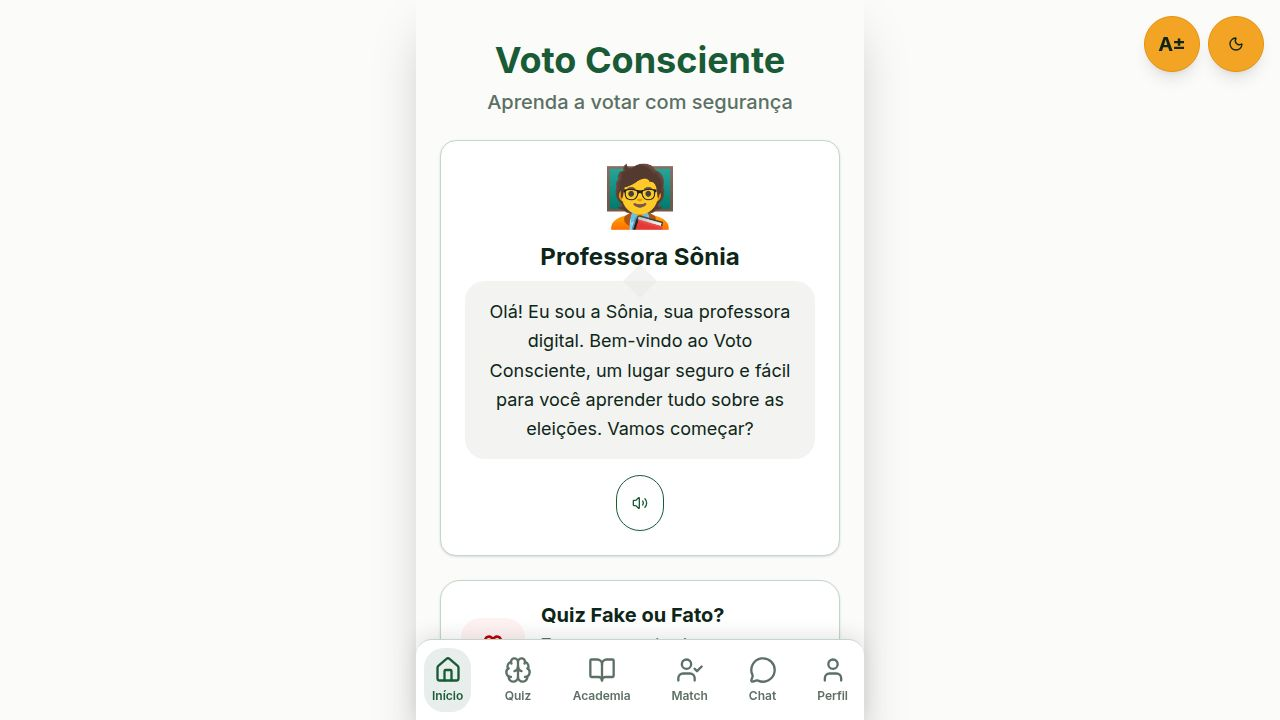
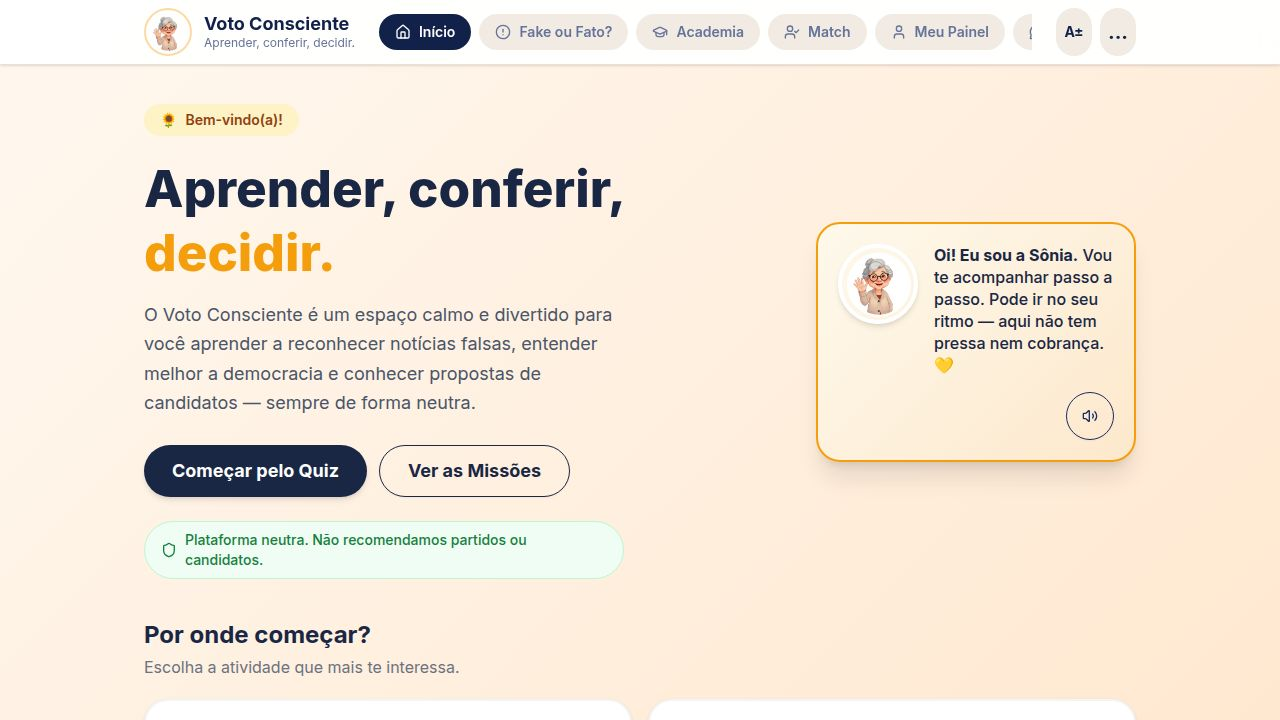
feat: redesign landing page com hero e card de chat
- Hero 2 colunas: badge "Bem-vindo(a)", headline "Aprender, conferir, decidir." (decidir em âmbar), subtexto, CTAs "Começar pelo Quiz" + "Ver as Missões", aviso de neutralidade com ícone Shield
- Card da Sônia no lado direito com foto, mensagem de boas-vindas e botão Ouvir (TTS)
- Seção "Por onde começar?" com 5 cards: Quiz, Academia, Match, Chat com a Sônia (novo), Meu Painel
- Cada card tem ícone colorido, badge de contexto (10 questões, 5 missões, 7 temas, Ao vivo, Seu progresso) e seta
- Animações framer-motion escalonadas nos cards

diff --git a/artifacts/voto-consciente/src/pages/home.tsx b/artifacts/voto-consciente/src/pages/home.tsx
@@ -1,79 +1,154 @@
 import { Link } from "wouter";
 import { SpeakerButton } from "@/components/speaker-button";
-import { AlertCircle, GraduationCap, UserCheck, User, ArrowRight } from "lucide-react";
+import { AlertCircle, GraduationCap, UserCheck, User, ArrowRight, MessageCircle, Shield } from "lucide-react";
 import { Card, CardContent } from "@/components/ui/card";
 import { Button } from "@/components/ui/button";
 import { motion } from "framer-motion";
 import mascoteImg from "@/assets/mascote.png";
 
+const soniaMessage =
+  "Oi! Eu sou a Sônia. Vou te acompanhar passo a passo. Pode ir no seu ritmo — aqui não tem pressa nem cobrança. 💛";
+
+const cards = [
+  {
+    title: "Quiz Fake ou Fato?",
+    description: "Teste seus conhecimentos e aprenda a identificar notícias falsas.",
+    icon: AlertCircle,
+    path: "/quiz",
+    iconBg: "#FEE2E2",
+    iconColor: "#DC2626",
+    badge: "10 questões",
+  },
+  {
+    title: "Academia da Democracia",
+    description: "Aulas simples sobre como funciona a política no Brasil.",
+    icon: GraduationCap,
+    path: "/academia",
+    iconBg: "#DBEAFE",
+    iconColor: "#2563EB",
+    badge: "5 missões",
+  },
+  {
+    title: "Match de Candidatos",
+    description: "Descubra quais propostas combinam com o que você pensa.",
+    icon: UserCheck,
+    path: "/match",
+    iconBg: "#DCFCE7",
+    iconColor: "#16A34A",
+    badge: "7 temas",
+  },
+  {
+    title: "Chat com a Sônia",
+    description: "Tire dúvidas sobre democracia e votação com sua assistente.",
+    icon: MessageCircle,
+    path: "/chat",
+    iconBg: "#FEF3C7",
+    iconColor: "#D97706",
+    badge: "Ao vivo",
+  },
+  {
+    title: "Meu Painel",
+    description: "Veja suas medalhas, pontuação e histórico de aprendizado.",
+    icon: User,
+    path: "/dashboard",
+    iconBg: "#F3E8FF",
+    iconColor: "#9333EA",
+    badge: "Seu progresso",
+  },
+];
+
 export default function Home() {
-  const welcomeMessage = "Não existem respostas erradas. Aqui, experiência de vida não tem idade!";
-
-  const cards = [
-    {
-      title: "Quiz Fake ou Fato?",
-      description: "Teste seus conhecimentos e aprenda a identificar notícias falsas.",
-      icon: AlertCircle,
-      path: "/quiz",
-      color: "bg-red-50 text-red-700",
-    },
-    {
-      title: "Academia",
-      description: "Aulas simples sobre como funciona a política no Brasil.",
-      icon: GraduationCap,
-      path: "/academia",
-      color: "bg-blue-50 text-blue-700",
-    },
-    {
-      title: "Match de Candidatos",
-      description: "Descubra quais propostas combinam mais com o que você pensa.",
-      icon: UserCheck,
-      path: "/match",
-      color: "bg-green-50 text-green-700",
-    },
-    {
-      title: "Meu Painel",
-      description: "Veja suas medalhas, pontuação e histórico de aprendizado.",
-      icon: User,
-      path: "/dashboard",
-      color: "bg-yellow-50 text-yellow-700",
-    }
-  ];
-
   return (
-    <div className="space-y-8 pb-8">
-      <div className="text-center pt-8">
-        <h1 className="text-4xl md:text-5xl font-extrabold text-foreground mb-4">Bem-vindo ao Voto Consciente</h1>
-        <p className="text-xl md:text-2xl text-muted-foreground font-medium">Aprenda a votar com segurança e confiança.</p>
-      </div>
-
-      <motion.div 
-        initial={{ opacity: 0, y: 20 }}
-        animate={{ opacity: 1, y: 0 }}
-        className="rounded-2xl p-6 shadow-sm border border-border flex flex-col md:flex-row items-center text-center md:text-left relative overflow-hidden gap-6"
-        style={{ background: 'linear-gradient(to right, #FFF3C4, #FFE4B0)' }}
-      >
-        <img src={mascoteImg} alt="Sônia" className="h-32 w-32 md:h-40 md:w-40 rounded-full object-cover border-4 border-white shadow-md shrink-0" />
-        <div className="flex-1">
-          <div className="bg-white/80 p-4 rounded-xl mb-4 relative shadow-sm inline-block">
-            <p className="text-xl leading-relaxed text-foreground font-medium">"{welcomeMessage}"</p>
-            <div className="absolute -left-3 top-1/2 -translate-y-1/2 w-6 h-6 bg-white/80 rotate-45 hidden md:block" />
-            <div className="absolute -top-3 left-1/2 -translate-x-1/2 w-6 h-6 bg-white/80 rotate-45 md:hidden" />
+    <div className="pb-8">
+      {/* ── HERO ── */}
+      <section className="grid grid-cols-1 md:grid-cols-2 gap-8 items-center pt-6 pb-10">
+        {/* Left */}
+        <motion.div
+          initial={{ opacity: 0, y: 24 }}
+          animate={{ opacity: 1, y: 0 }}
+          transition={{ duration: 0.6, ease: "easeOut" }}
+        >
+          {/* Badge */}
+          <div className="inline-flex items-center gap-2 px-4 py-1.5 rounded-full text-sm font-semibold mb-5" style={{ background: "#FEF3C7", color: "#92400E" }}>
+            <span>🌻</span> Bem-vindo(a)!
           </div>
-        </div>
-        <div className="shrink-0">
-            <SpeakerButton text={welcomeMessage} className="bg-white hover:bg-white/90" />
-        </div>
-      </motion.div>
 
-      <div className="flex justify-center">
-        <Link href="/academia">
-          <Button className="h-16 px-12 text-2xl font-bold rounded-full shadow-lg hover:scale-105 transition-transform" size="lg">
-            Começar agora
-          </Button>
-        </Link>
+          {/* Headline */}
+          <h1 className="font-extrabold leading-tight mb-4" style={{ fontSize: "clamp(2rem, 5vw, 3.2rem)", color: "#1a2744" }}>
+            Aprender, conferir,{" "}
+            <span style={{ color: "#F59E0B" }}>decidir.</span>
+          </h1>
+
+          {/* Sub */}
+          <p className="text-lg leading-relaxed mb-7" style={{ color: "#4a5568", maxWidth: 480 }}>
+            O Voto Consciente é um espaço calmo e divertido para você aprender a reconhecer notícias falsas, entender melhor a democracia e conhecer propostas de candidatos — sempre de forma neutra.
+          </p>
+
+          {/* CTAs */}
+          <div className="flex flex-wrap gap-3 mb-6">
+            <Link href="/quiz">
+              <Button
+                className="h-13 px-7 text-lg font-bold rounded-full shadow-md hover:scale-105 transition-transform"
+                style={{ background: "#1a2744", color: "#fff", border: "none" }}
+              >
+                Começar pelo Quiz
+              </Button>
+            </Link>
+            <Link href="/academia">
+              <Button
+                variant="outline"
+                className="h-13 px-7 text-lg font-bold rounded-full hover:scale-105 transition-transform"
+                style={{ borderColor: "#1a2744", color: "#1a2744" }}
+              >
+                Ver as Missões
+              </Button>
+            </Link>
+          </div>
+
+          {/* Neutrality note */}
+          <div className="inline-flex items-center gap-2 px-4 py-2 rounded-full text-sm font-medium" style={{ background: "#F0FDF4", color: "#15803D", border: "1px solid #BBF7D0" }}>
+            <Shield className="h-4 w-4" />
+            Plataforma neutra. Não recomendamos partidos ou candidatos.
+          </div>
+        </motion.div>
+
+        {/* Right — Sônia card */}
+        <motion.div
+          initial={{ opacity: 0, scale: 0.92 }}
+          animate={{ opacity: 1, scale: 1 }}
+          transition={{ delay: 0.2, duration: 0.6, type: "spring", bounce: 0.35 }}
+          className="flex justify-center md:justify-end"
+        >
+          <div
+            className="rounded-3xl p-5 shadow-xl max-w-xs w-full"
+            style={{ background: "linear-gradient(135deg, #FEF9EC 0%, #FDE8CC 100%)", border: "2px solid #F59E0B" }}
+          >
+            <div className="flex items-start gap-4 mb-4">
+              <img
+                src={mascoteImg}
+                alt="Sônia"
+                className="h-20 w-20 rounded-full object-cover border-4 border-white shadow-md shrink-0"
+              />
+              <div>
+                <p className="text-base leading-snug font-medium" style={{ color: "#1a2744" }}>
+                  <strong>Oi! Eu sou a Sônia.</strong> Vou te acompanhar passo a passo. Pode ir no seu ritmo — aqui não tem pressa nem cobrança. 💛
+                </p>
+              </div>
+            </div>
+            <div className="flex justify-end">
+              <SpeakerButton text={soniaMessage} className="gap-2 px-4 py-2 rounded-full font-semibold text-sm" style={{ background: "#1a2744", color: "#fff" } as React.CSSProperties} />
+            </div>
+          </div>
+        </motion.div>
+      </section>
+
+      {/* ── Section title ── */}
+      <div className="mb-5">
+        <h2 className="text-2xl font-bold" style={{ color: "#1a2744" }}>Por onde começar?</h2>
+        <p className="text-base mt-1" style={{ color: "#6B7280" }}>Escolha a atividade que mais te interessa.</p>
       </div>
 
+      {/* ── Feature cards ── */}
       <div className="grid grid-cols-1 md:grid-cols-2 gap-4">
         {cards.map((card, idx) => {
           const Icon = card.icon;
@@ -82,20 +157,28 @@ export default function Home() {
               <motion.div
                 initial={{ opacity: 0, y: 20 }}
                 animate={{ opacity: 1, y: 0 }}
-                transition={{ delay: idx * 0.1 }}
+                transition={{ delay: 0.1 + idx * 0.08 }}
                 className="block cursor-pointer h-full"
                 data-testid={`link-home-card-${idx}`}
               >
-                <Card className="hover:border-primary transition-colors hover:shadow-md h-full bg-white">
-                  <CardContent className="p-6 flex items-center gap-4 h-full">
-                    <div className={`p-4 rounded-xl ${card.color} shrink-0`}>
-                      <Icon className="h-8 w-8" />
+                <Card className="hover:shadow-lg transition-all hover:-translate-y-0.5 h-full bg-white border-2 hover:border-amber-300" style={{ borderColor: "#F3F4F6" }}>
+                  <CardContent className="p-5 flex items-center gap-4 h-full">
+                    <div
+                      className="p-4 rounded-2xl shrink-0 flex items-center justify-center"
+                      style={{ background: card.iconBg }}
+                    >
+                      <Icon className="h-8 w-8" style={{ color: card.iconColor }} />
                     </div>
-                    <div className="flex-1">
-                      <h3 className="font-bold text-xl mb-1 text-foreground">{card.title}</h3>
-                      <p className="text-base text-muted-foreground leading-snug">{card.description}</p>
+                    <div className="flex-1 min-w-0">
+                      <div className="flex items-center gap-2 mb-1">
+                        <h3 className="font-bold text-lg leading-tight" style={{ color: "#1a2744" }}>{card.title}</h3>
+                        <span className="text-xs font-semibold px-2 py-0.5 rounded-full shrink-0" style={{ background: "#FEF3C7", color: "#92400E" }}>
+                          {card.badge}
+                        </span>
+                      </div>
+                      <p className="text-sm leading-snug" style={{ color: "#6B7280" }}>{card.description}</p>
                     </div>
-                    <ArrowRight className="h-6 w-6 text-muted-foreground shrink-0" />
+                    <ArrowRight className="h-5 w-5 shrink-0" style={{ color: "#9CA3AF" }} />
                   </CardContent>
                 </Card>
               </motion.div>